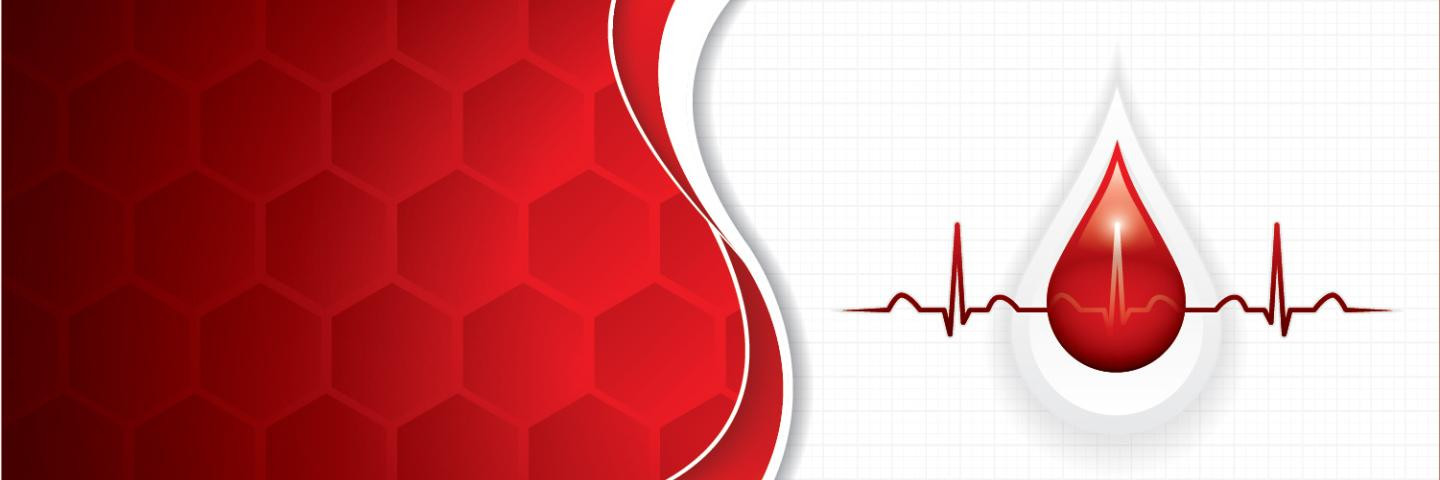
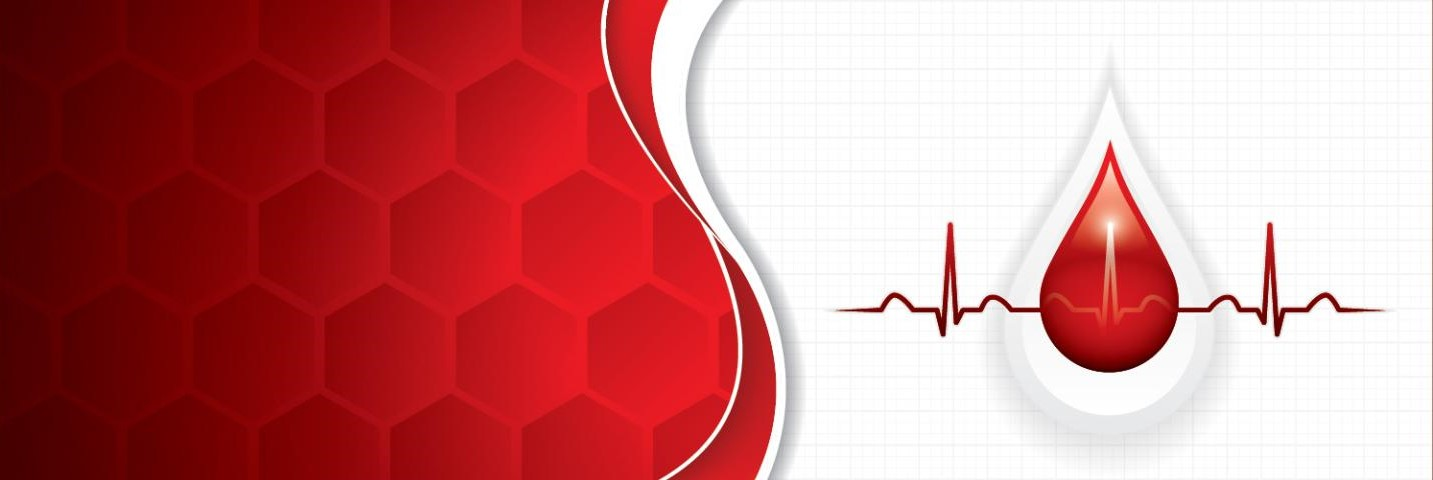
first commi

diff --git a/style.css b/style.css
@@ -334,13 +334,13 @@ background-color:transparent;
     padding-left: 50px;
     box-shadow: 0px 1px 6px 1px;
     background-color:rgb(255, 0, 0);
-
     margin: 50px;
     border: transparent;
     transition: transform .2s ease-in;
     display: flex;
     transition: 1s;
     background-image: url("blood2.jpg");
+    background-size: cover;
 }
 
 .table:hover{
